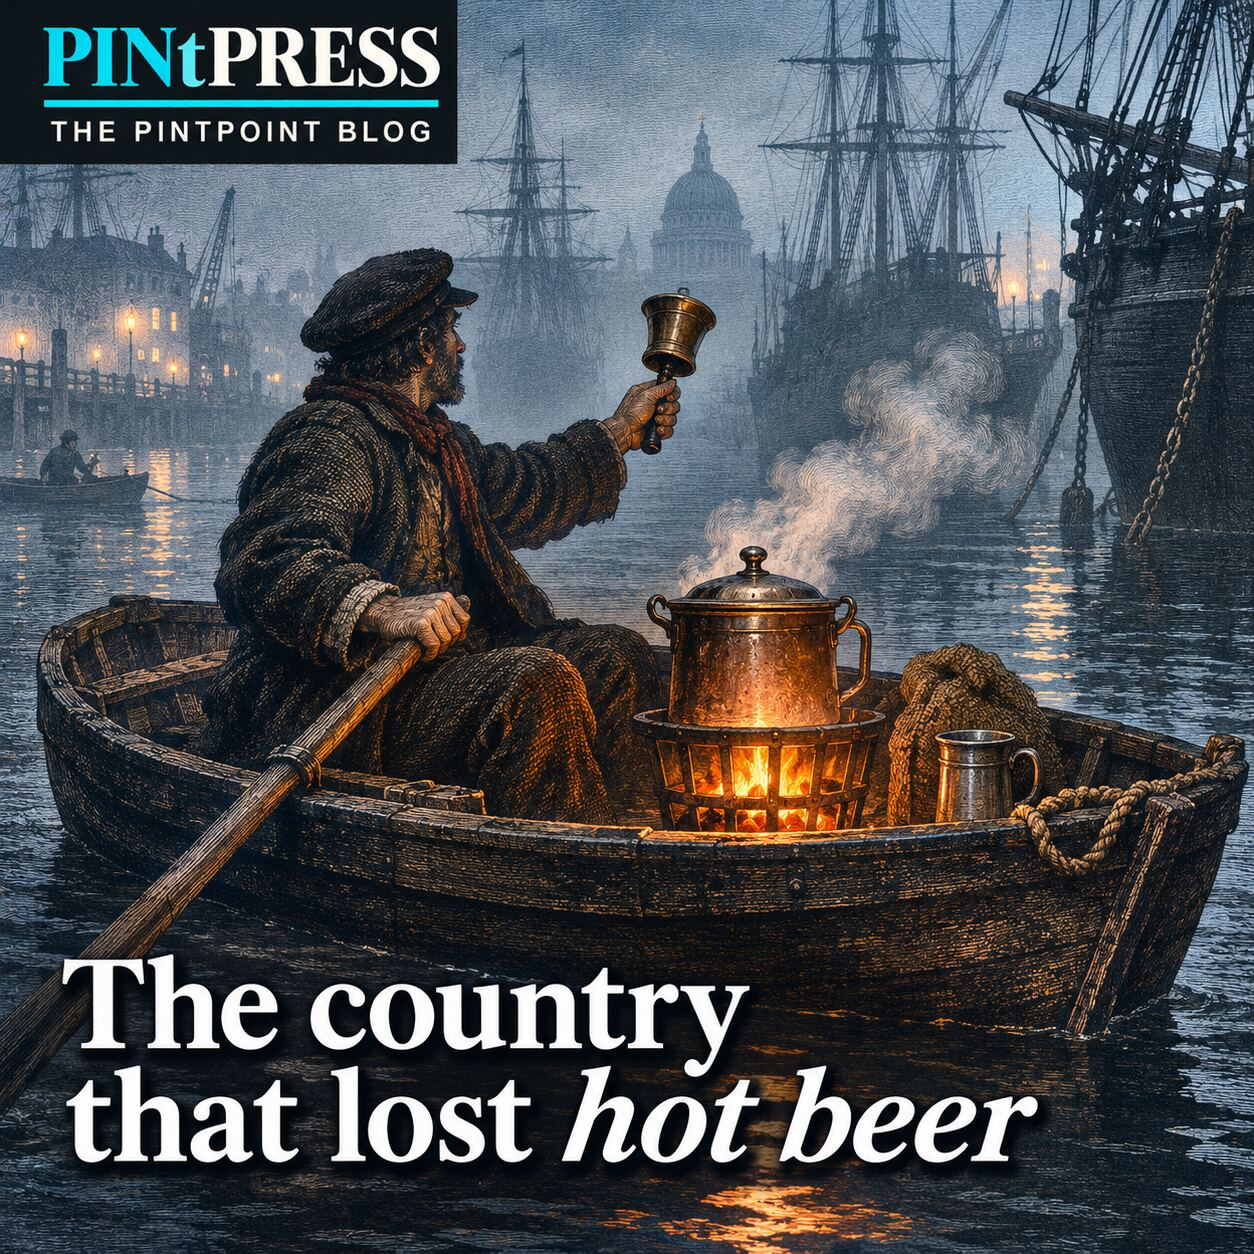
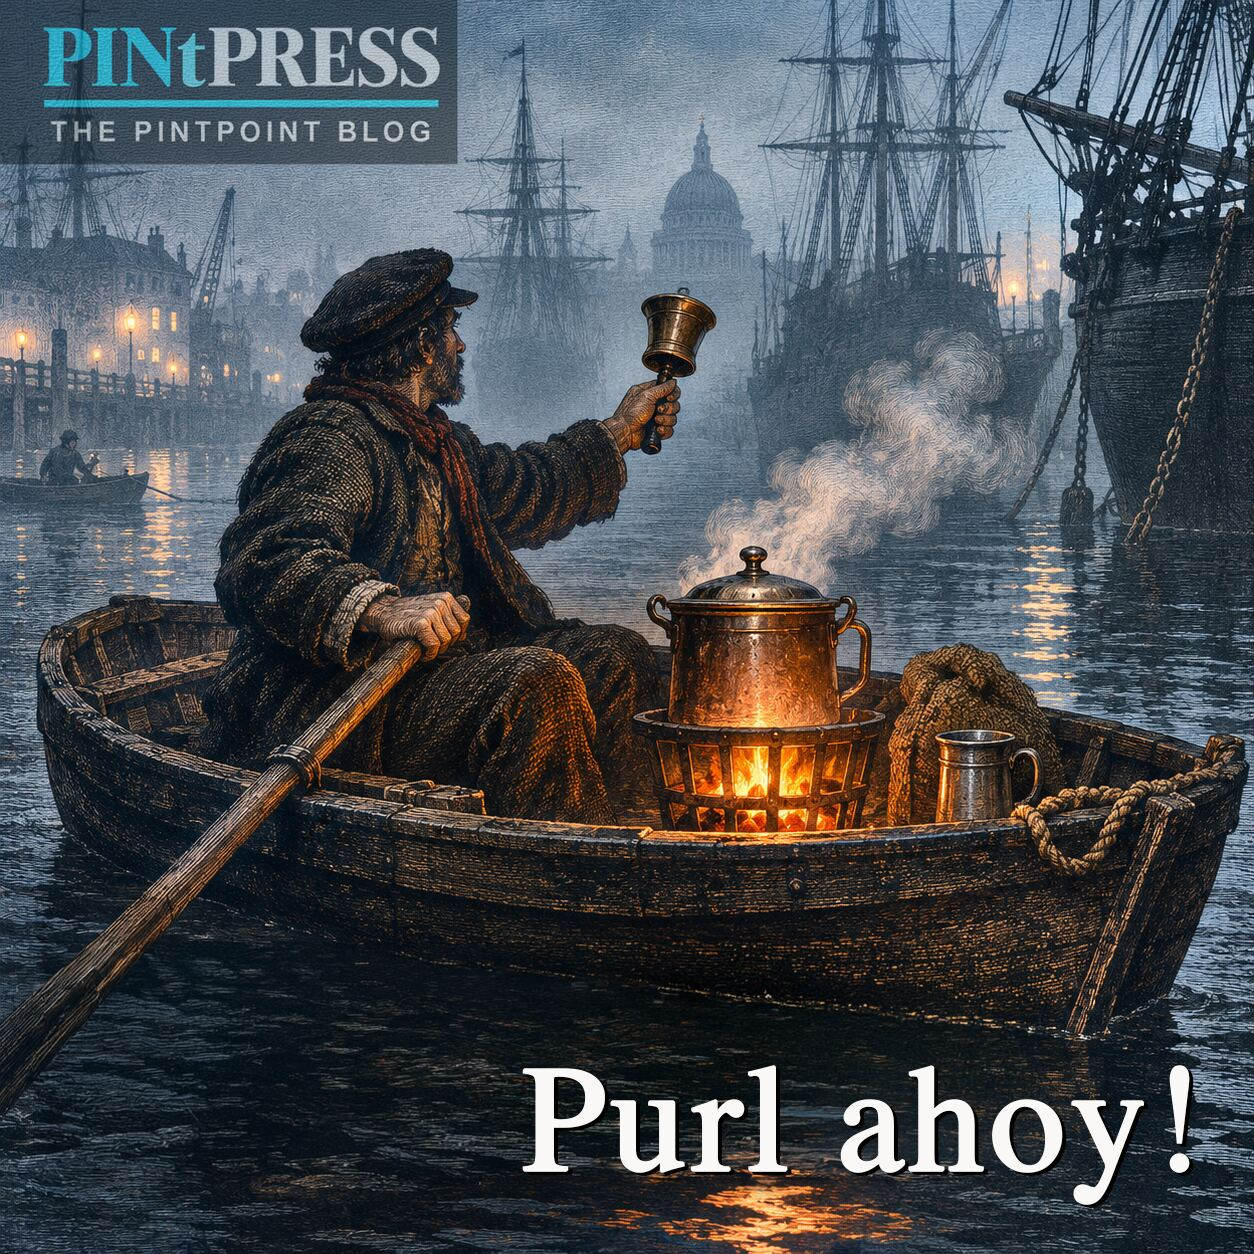
Retitle the purl draft "Purl ahoy!" and take the new square card
The title is the shout itself, which the piece already quotes in its
second paragraph: the coal-whippers and lightermen hailed the purl-man
with "Purl ahoy". The old headline, "The country that lost hot beer",
named the argument rather than the scene.

Touches title, og:title and h1. twitter:title is unchanged and still
carries the second fact, "Hot beer, sold off boats in the Pool of
London, 1851", which is also the gloss a reader needs for a word the
card does not explain.

blog/images/hot-beer.jpg is the new square, which prints "Purl ahoy!"
bottom right and so leaves the bottom left clear for the caption X
lays over it.

Still outstanding: the 1200x628 wide cut, and with it og:image,
twitter:image and the schema image.

Changed region(s): [[0.0311, 0.7464, 0.9641, 0.9641], [0.0, 0.0, 0.3732, 0.1555]]

diff --git a/r/purl/index.html b/r/purl/index.html
@@ -8,14 +8,14 @@
      /r/esb/ went, the day the piece is published. -->
   <meta charset="UTF-8" />
   <meta name="viewport" content="width=device-width, initial-scale=1.0" />
-  <title>The country that lost hot beer &mdash; PINtPRESS</title>
+  <title>Purl ahoy! &mdash; PINtPRESS</title>
   <meta name="description" content="Mayhew counted the men who sold hot beer off boats in the Pool of London. Britain still has recipes for it. What is harder to find is anything like the trade he describes." />
   <meta name="robots" content="noindex,nofollow" />
   <link rel="icon" type="image/png" href="../../favicon.png" />
   <link rel="alternate" type="application/rss+xml" title="PINtPRESS" href="https://pintpoint.co.uk/blog/feed.xml" />
   <meta property="og:type" content="article" />
   <meta property="og:url" content="https://pintpoint.co.uk/r/purl/" />
-  <meta property="og:title" content="The country that lost hot beer" />
+  <meta property="og:title" content="Purl ahoy!" />
   <meta property="og:description" content="Mayhew counted the men who sold hot beer off boats in the Pool of London. Britain still has recipes for it. What is harder to find is anything like the trade he describes." />
   <meta property="fb:app_id" content="1892965231402903" />
   <meta name="twitter:card" content="summary_large_image" />
@@ -50,7 +50,7 @@
 
   <article class="content">
     <p class="meta"><span class="imprint">PINtPRESS</span><span class="category essay">Essay</span>DRAFT &middot; not published &middot; Beer history</p>
-    <h1>The country that lost <em>hot beer</em></h1>
+    <h1>Purl ahoy!</h1>
 
     <p class="standfirst">Mayhew counted the men who sold hot beer off boats in the Pool of London. Britain still has recipes for it. What is harder to find is anything like the trade he describes.</p>
 

diff --git a/blog/drafts/hot-beer.html b/blog/drafts/hot-beer.html
@@ -3,7 +3,7 @@
 <head>
   <meta charset="UTF-8" />
   <meta name="viewport" content="width=device-width, initial-scale=1.0" />
-  <title>The country that lost hot beer &mdash; PINtPRESS</title>
+  <title>Purl ahoy! &mdash; PINtPRESS</title>
   <meta name="description" content="Mayhew counted the men who sold hot beer off boats in the Pool of London. Britain still has recipes for it. What is harder to find is anything like the trade he describes." />
   <meta name="robots" content="noindex,nofollow" />
   <link rel="icon" type="image/png" href="../../favicon.png" />
@@ -11,7 +11,7 @@
   <link rel="alternate" type="application/rss+xml" title="PINtPRESS" href="https://pintpoint.co.uk/blog/feed.xml" />
   <meta property="og:type" content="article" />
   <meta property="og:url" content="https://pintpoint.co.uk/blog/hot-beer.html" />
-  <meta property="og:title" content="The country that lost hot beer" />
+  <meta property="og:title" content="Purl ahoy!" />
   <meta property="og:description" content="Mayhew counted the men who sold hot beer off boats in the Pool of London. Britain still has recipes for it. What is harder to find is anything like the trade he describes." />
   <meta property="fb:app_id" content="1892965231402903" />
   <meta name="twitter:card" content="summary_large_image" />
@@ -46,7 +46,7 @@
 
   <article class="content">
     <p class="meta"><span class="imprint">PINtPRESS</span><span class="category essay">Essay</span>DRAFT &middot; not published &middot; Beer history</p>
-    <h1>The country that lost <em>hot beer</em></h1>
+    <h1>Purl ahoy!</h1>
 
     <p class="standfirst">Mayhew counted the men who sold hot beer off boats in the Pool of London. Britain still has recipes for it. What is harder to find is anything like the trade he describes.</p>
 

diff --git a/blog/drafts/index.html b/blog/drafts/index.html
@@ -38,7 +38,7 @@
     <div class="warn">Unlisted and not indexed. Behind Cloudflare Access, so only signed-in browsers can read these. Greyed entries have a published counterpart in <code>/blog/</code>; those marked <em>redirect stub</em> are not drafts at all and exist to keep old draft links working. Every draft here wants checking; a <em>possible duplicate</em> only means a published piece shares a headline phrase or the filename's subject, often the same article retitled on the way out, so open both before deleting.</div>
     <ul>
       <li>
-        <a href="hot-beer.html">The country that lost hot beer</a>
+        <a href="hot-beer.html">Purl ahoy!</a>
         <span class="meta">edited 2026-11-25</span>
         <span class="blurb">Mayhew counted the men who sold hot beer off boats in the Pool of London. Britain still has recipes for it. What is harder to find is anything like…</span>
       </li>
